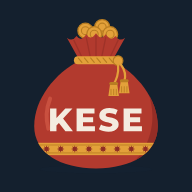
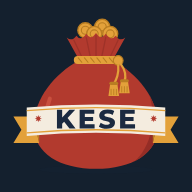
Kese logosu: KESE yazısı kurdeleyle keseye işlendi
Krem kurdele üzerinde lacivert KESE (yüksek kontrast), altın uçlar
ve sekiz köşeli yıldızlar. Etek şeridi kaldırıldı. Ikon kurdele
genişliğine göre büyütüldü, 40 pikselde de okunuyor.

Claude-Session: https://claude.ai/code/session_01XqyNYuTbSfPdxAJCXwaoCi

diff --git a/sw.js b/sw.js
@@ -1,4 +1,4 @@
-const CACHE="kese-v3";
+const CACHE="kese-v4";
 const FILES=["./","index.html","manifest.webmanifest","icon-180.png","icon-192.png","icon-512.png"];
 self.addEventListener("install",e=>{e.waitUntil(caches.open(CACHE).then(c=>c.addAll(FILES)));self.skipWaiting()});
 self.addEventListener("activate",e=>{e.waitUntil(caches.keys().then(ks=>Promise.all(ks.filter(k=>(k.startsWith("cuzdan")||k.startsWith("kese"))&&k!==CACHE).map(k=>caches.delete(k)))));self.clients.claim()});
